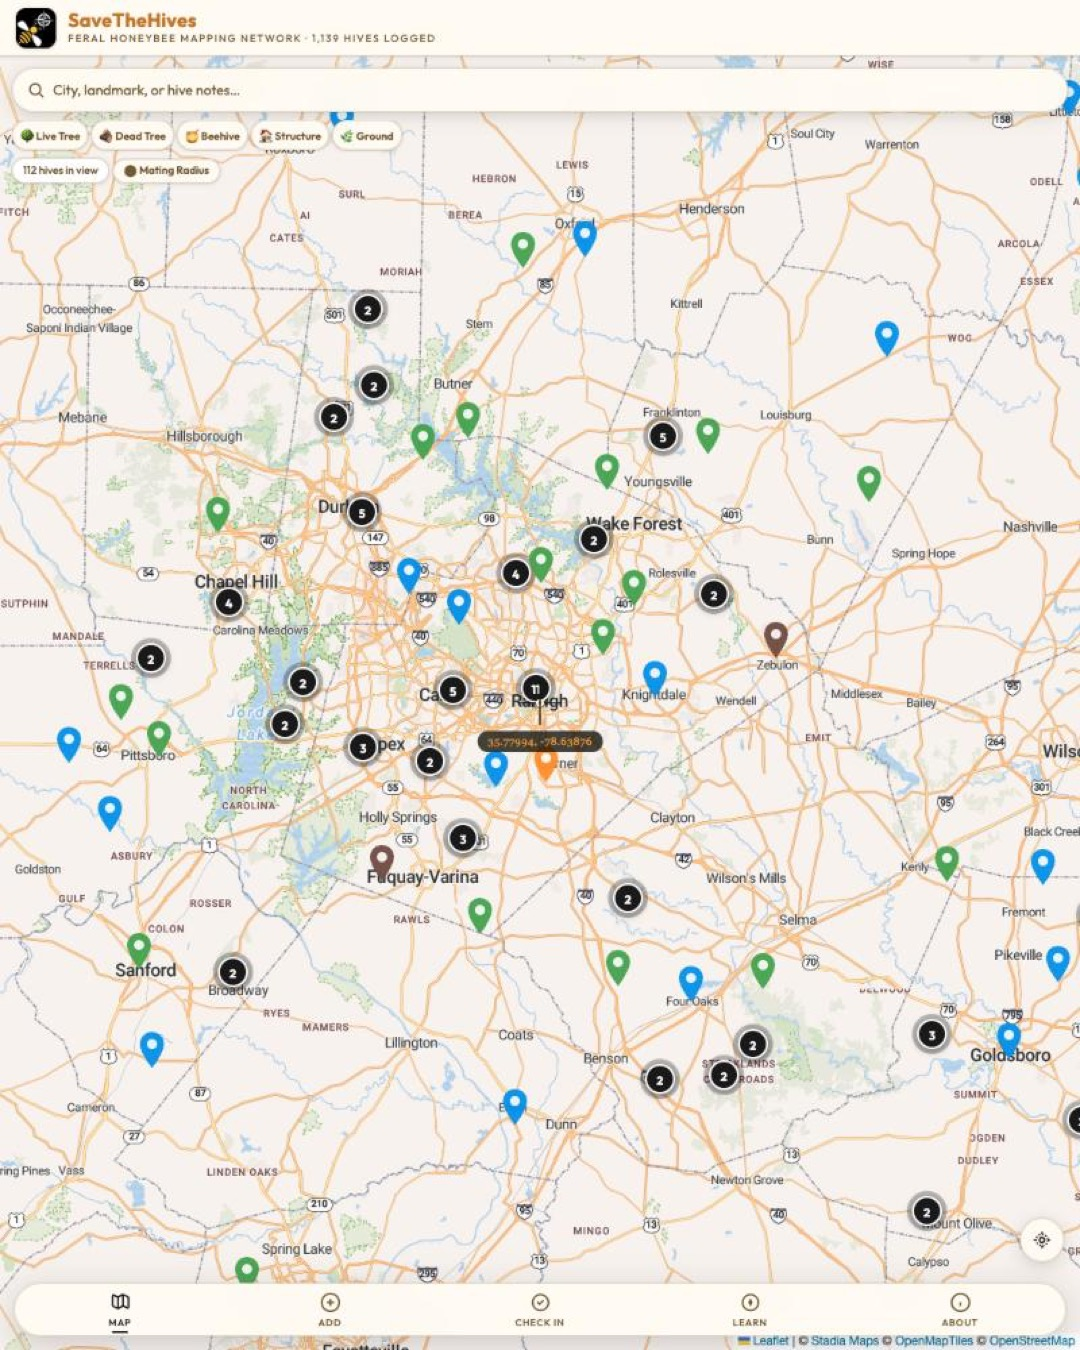
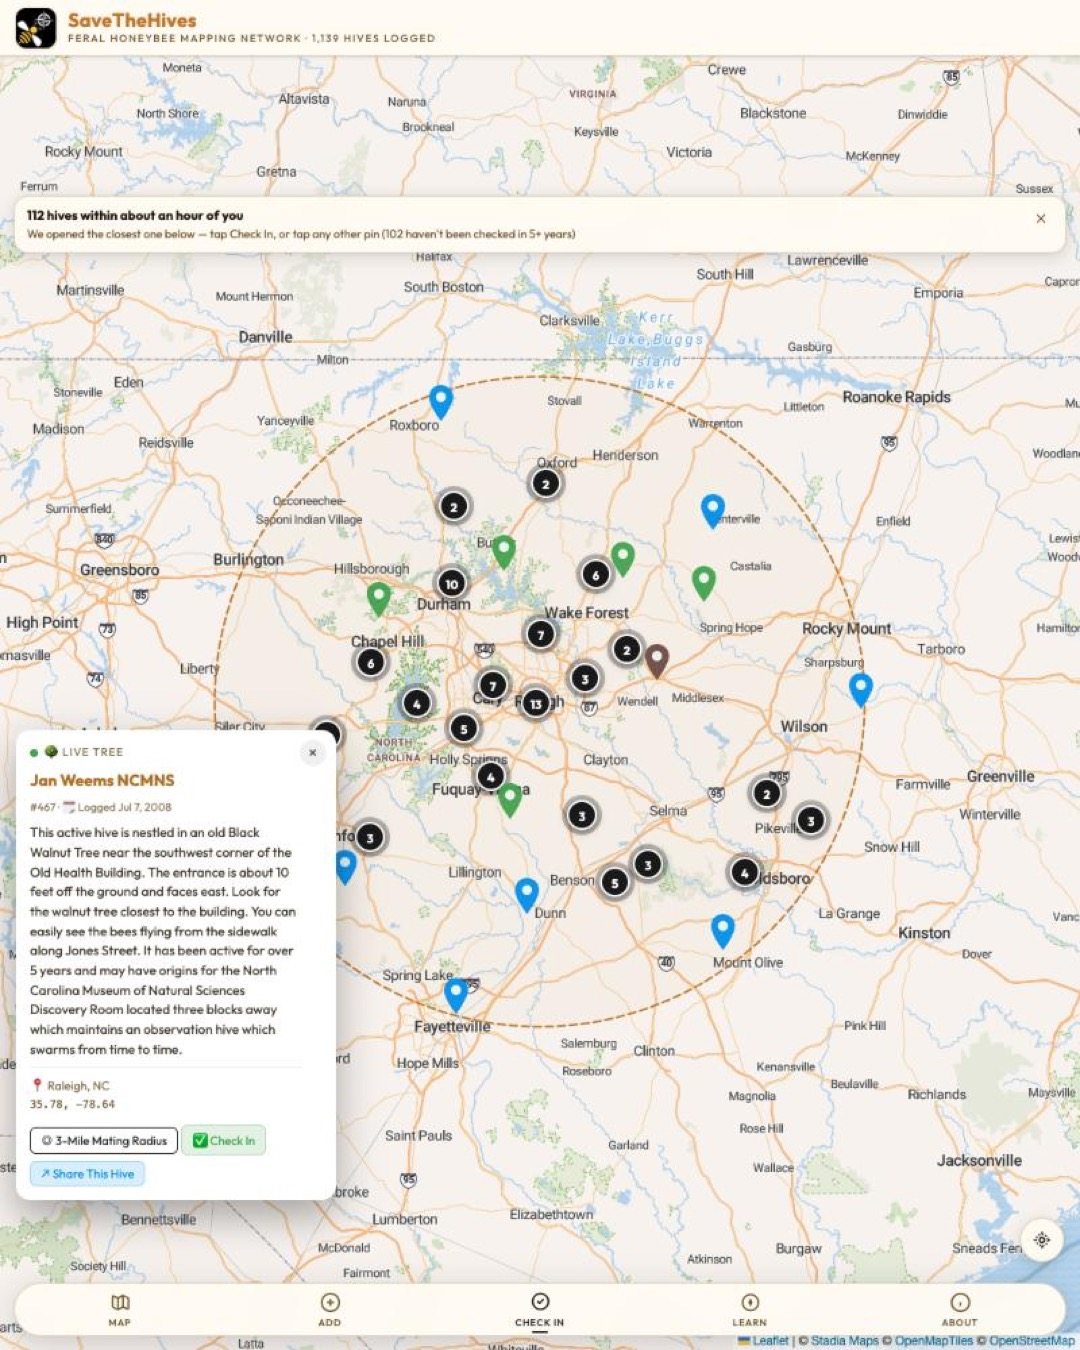
Fix Check-In auto-open overzooming past the "near you" overview
runValidateFilter() framed the full ~hour radius at zoom 9, then its
auto-open of the nearest hive forced the map to zoom 13+ (via
clusterGroup.zoomToShowLayer + showHiveNotePanel's own flyTo), destroying
that overview — the radius circle was only visible again after manually
zooming back out. showHiveNotePanel() now takes a skipZoom option;
Validate's auto-open passes it so the nearest hive's story still opens,
but the map stays at the framed overview. Ordinary pin clicks are
unaffected (skipZoom defaults false).

Recaptured the "near you" marketing screenshot against the real fixed
flow instead of a staged map view — the actual banner copy, radius
circle, and auto-opened hive story in one shot. Old staged version
archived.

diff --git a/app/app.js b/app/app.js
@@ -756,7 +756,7 @@ function hivePopupHtml(hive) {
 // (mockup, 2026-10-11), replacing the old marker-anchored Leaflet popup.
 // Also centers+zooms the map on the hive, same spirit as the cluster
 // click's own zoom-to-bounds.
-async function showHiveNotePanel(hive) {
+async function showHiveNotePanel(hive, { skipZoom = false } = {}) {
   // Never zoom OUT from wherever the map already is — only ensures AT LEAST
   // zoom 13. A fixed zoom 13 (tried 2026-10-11, reverted same day) broke
   // exactly this flow: click a 2-hive cluster (Leaflet zooms in only as far
@@ -765,7 +765,14 @@ async function showHiveNotePanel(hive) {
   // the cluster click had just zoomed to, re-merging the pair right after
   // you separated them. Math.max avoids that: it can zoom in from a wide
   // view, but never undoes a zoom-in you (or a cluster click) already did.
-  map.flyTo([hive.lat, hive.lng], Math.max(map.getZoom(), 13), { duration: 0.6 });
+  //
+  // skipZoom (2026-10-14, Ronnie live-testing feedback): the Check-In/
+  // Validate auto-open of the nearest hive (runValidateFilter) was fighting
+  // this — map.setView() had just framed the full ~hour radius at zoom 9,
+  // then this flyTo forced zoom 13, destroying that overview. Validate
+  // passes skipZoom:true so the panel still opens with the hive's story,
+  // but the map stays right where runValidateFilter put it.
+  if (!skipZoom) map.flyTo([hive.lat, hive.lng], Math.max(map.getZoom(), 13), { duration: 0.6 });
 
   const panel = document.getElementById('hive-note-panel');
   panel.innerHTML = `<button class="note-panel-close" onclick="closeHiveNotePanel()" aria-label="Close">&times;</button>${hivePopupHtml(hive)}`;
@@ -1392,8 +1399,13 @@ function runValidateFilter(lat, lng) {
       if (d < nearestDist) { nearest = h; nearestDist = d; }
     });
     // Small delay so this doesn't fight the map.setView() animation above.
+    // Deliberately skips clusterGroup.zoomToShowLayer() and passes
+    // skipZoom:true — both used to force the map in to zoom 13+ to reveal
+    // the nearest marker, undoing the zoom-9 "about an hour of you"
+    // overview map.setView() just framed. The panel still opens with the
+    // nearest hive's full story; the map just stays put.
     setTimeout(() => {
-      if (nearest._marker) clusterGroup.zoomToShowLayer(nearest._marker, () => showHiveNotePanel(nearest));
+      showHiveNotePanel(nearest, { skipZoom: true });
     }, 350);
   }
 }

diff --git a/app/sw.js b/app/sw.js
@@ -4,7 +4,7 @@
 // Bump CACHE_VERSION on any deploy that changes a cached file (styles.css,
 // app.js, pathfinder.js, icons, images, etc.) so returning visitors pick up
 // the new version instead of continuing to serve the old cached one.
-const CACHE_VERSION = 'v2.14.1'; // Chip padding tightened further in styles.css (2026-10-11) — bumping per the rule set in v2.14.0's note above: any styles.css/app.js/pathfinder.js/index.html change bumps this, every time.
+const CACHE_VERSION = 'v2.14.2'; // Fixed Check-In/Validate auto-open overzooming past the "about an hour of you" overview (app.js, 2026-10-14) — bumping per the standing rule above.
 const SHELL_CACHE = `savethehives-shell-${CACHE_VERSION}`;
 const TILE_CACHE = `savethehives-tiles-${CACHE_VERSION}`;
 const TILE_CACHE_MAX_ENTRIES = 200;

diff --git a/ASSET_INDEX.md b/ASSET_INDEX.md
@@ -56,7 +56,7 @@ These all stay exactly where they are. They also double as Facebook post images 
 | File (new path) | What it is | FB crop | Last used in FB post |
 |---|---|---|---|
 | `marketing/screenshots/map-overview.jpg` | Post-redesign (Oct 11 2026) map hero: new OSM Bright basemap, white filter chips, search bar, black clusters, continental zoom | `marketing/facebook/map-overview_fb-square-1080x1080.jpg` / `_fb-portrait-1080x1350.jpg` | Not yet used — captured Oct 14 2026 |
-| `marketing/screenshots/map-near-you.jpg` | "Hives near you" story shot: Raleigh/Triangle metro zoom (~1-hour-drive scale), 112 hives in view, built for a "check in on one near you" angle | `marketing/facebook/map-near-you_fb-square-1080x1080.jpg` / `_fb-portrait-1080x1350.jpg` | Not yet used — captured Oct 14 2026 |
+| `marketing/screenshots/map-near-you.jpg` | The REAL "Check In" flow, not a staged map view: the "N hives within about an hour of you" banner, the dashed ~50-mile radius, and the nearest hive's story auto-opened (#467, Jan Weems NCMNS — a walnut-tree hive tied to the NC Museum of Natural Sciences). Replaces an earlier staged version (archived) once the overzoom bug below was fixed | `marketing/facebook/map-near-you_fb-square-1080x1080.jpg` / `_fb-portrait-1080x1350.jpg` | Not yet used — recaptured Oct 14 2026 |
 | `marketing/screenshots/map-story-bryan.jpg` | A single real hive's detail panel open (#466, Bryan A., Raleigh NC — huge hive under a back porch, swarms 2-3x/year) — narrative/story framing instead of a flat pin field. Replaces the earlier Charles E. Wallace version (archived — its description mentioned a beekeeper trying to remove the hive, which Ronnie didn't want to lead with) | `marketing/facebook/map-story-bryan_fb-square-1080x1080.jpg` / `_fb-portrait-1080x1350.jpg` | Not yet used — captured Oct 14 2026 |
 | `marketing/screenshots/map-story-patrick.jpg` | A second hive-story shot (#19, San Francisco Zoo — 10+ year colony in the Pachyderm building's hollow wall, Active status, recent check-in shown). Submitter name (Patrick Schlemmer) is CSS-blurred in the screenshot at Ronnie's request | `marketing/facebook/map-story-patrick_fb-square-1080x1080.jpg` / `_fb-portrait-1080x1350.jpg` | Not yet used — captured Oct 14 2026 |
 | `marketing/screenshots/map-mating-radius.jpg` | Mating-radius circles toggled on across ~12 Triangle-area hives, overlapping rings — visual for the Genetic Goldmine/connectivity science angle | `marketing/facebook/map-mating-radius_fb-square-1080x1080.jpg` / `_fb-portrait-1080x1350.jpg` | Not yet used — captured Oct 14 2026 |
@@ -108,6 +108,7 @@ replaced by the `map-*` rows above:
 | `SaveTheHives_map_screenshot_cropped.jpg` | Cropped version of the above |
 | `map-screenshot-full_fb-square-1080x1080.jpg` / `_fb-portrait-1080x1350.jpg` | FB crop of the raw screenshot |
 | `map-screenshot-cropped_fb-square-1080x1080.jpg` / `_fb-portrait-1080x1350.jpg` | FB crop of the cropped screenshot |
+| `map-near-you-synthetic.jpg` / `_fb-square-1080x1080.jpg` / `_fb-portrait-1080x1350.jpg` | First "near you" shot — a manually staged map.setView() at the Triangle, no real UI flow. Archived Oct 14 2026 same day as capture, replaced by a screenshot of the actual Check-In/Validate flow once its overzoom bug (see `app/app.js` `showHiveNotePanel`/`runValidateFilter`, fixed same day) stopped it from landing on the right view on its own |
 | `map-hive-story.jpg` / `map-hive-story_fb-square-1080x1080.jpg` / `_fb-portrait-1080x1350.jpg` | First hive-story shot (Charles E. Wallace, #474) — archived Oct 14 2026, same day as capture, because Ronnie didn't want to lead with its "a local beekeeper tried to use a vaccum contraption to get them out" line. Replaced by `map-story-bryan.jpg` and `map-story-patrick.jpg` above |
 
 ## Known gaps as of this reorg (Sep 26 2026)
